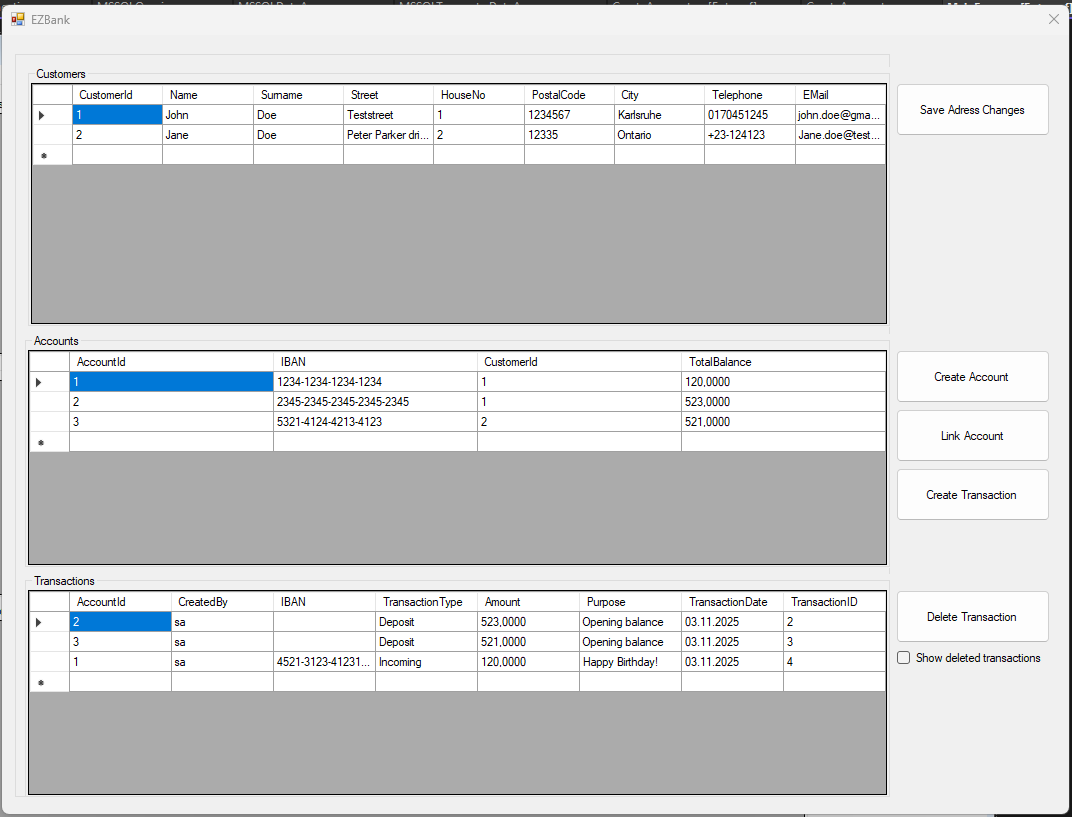
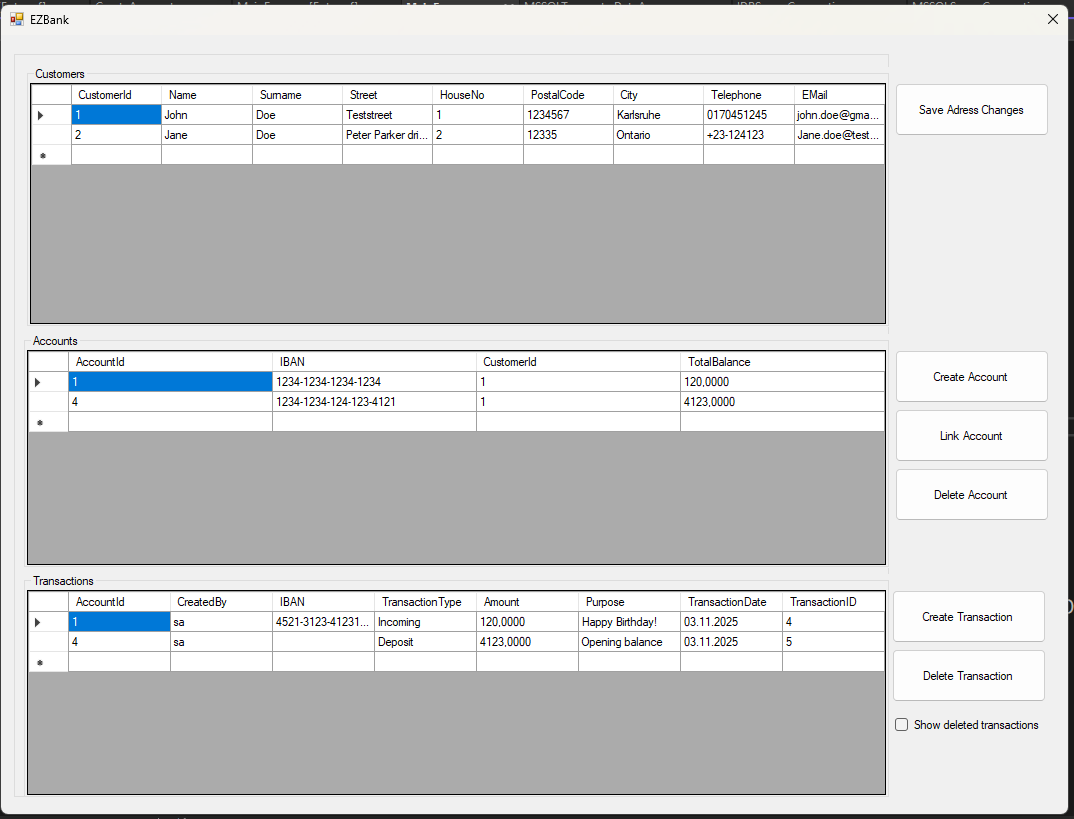
implement deleting accounts

diff --git a/UI/MainForm.Designer.cs b/UI/MainForm.Designer.cs
@@ -41,6 +41,7 @@
             this.btnDeleteTransaction = new System.Windows.Forms.Button();
             this.btnAccountcreate = new System.Windows.Forms.Button();
             this.chkDeletedTransactions = new System.Windows.Forms.CheckBox();
+            this.btnDeleteAccount = new System.Windows.Forms.Button();
             this.grpMain.SuspendLayout();
             this.grpTransactions.SuspendLayout();
             ((System.ComponentModel.ISupportInitialize)(this.dgvTransactions)).BeginInit();
@@ -148,7 +149,7 @@
             // 
             // btnTransaction
             // 
-            this.btnTransaction.Location = new System.Drawing.Point(894, 433);
+            this.btnTransaction.Location = new System.Drawing.Point(891, 555);
             this.btnTransaction.Name = "btnTransaction";
             this.btnTransaction.Size = new System.Drawing.Size(154, 53);
             this.btnTransaction.TabIndex = 3;
@@ -158,7 +159,7 @@
             // 
             // btnDeleteTransaction
             // 
-            this.btnDeleteTransaction.Location = new System.Drawing.Point(894, 555);
+            this.btnDeleteTransaction.Location = new System.Drawing.Point(891, 614);
             this.btnDeleteTransaction.Name = "btnDeleteTransaction";
             this.btnDeleteTransaction.Size = new System.Drawing.Size(154, 53);
             this.btnDeleteTransaction.TabIndex = 4;
@@ -179,7 +180,7 @@
             // chkDeletedTransactions
             // 
             this.chkDeletedTransactions.AutoSize = true;
-            this.chkDeletedTransactions.Location = new System.Drawing.Point(895, 615);
+            this.chkDeletedTransactions.Location = new System.Drawing.Point(894, 682);
             this.chkDeletedTransactions.Name = "chkDeletedTransactions";
             this.chkDeletedTransactions.Size = new System.Drawing.Size(151, 17);
             this.chkDeletedTransactions.TabIndex = 6;
@@ -187,11 +188,22 @@
             this.chkDeletedTransactions.UseVisualStyleBackColor = true;
             this.chkDeletedTransactions.CheckedChanged += new System.EventHandler(this.chkDeletedTransactions_CheckedChanged);
             // 
+            // btnDeleteAccount
+            // 
+            this.btnDeleteAccount.Location = new System.Drawing.Point(894, 433);
+            this.btnDeleteAccount.Name = "btnDeleteAccount";
+            this.btnDeleteAccount.Size = new System.Drawing.Size(154, 53);
+            this.btnDeleteAccount.TabIndex = 7;
+            this.btnDeleteAccount.Text = "Delete Account";
+            this.btnDeleteAccount.UseVisualStyleBackColor = true;
+            this.btnDeleteAccount.Click += new System.EventHandler(this.btnDeleteAccount_Click);
+            // 
             // MainForm
             // 
             this.AutoScaleDimensions = new System.Drawing.SizeF(6F, 13F);
             this.AutoScaleMode = System.Windows.Forms.AutoScaleMode.Font;
             this.ClientSize = new System.Drawing.Size(1067, 779);
+            this.Controls.Add(this.btnDeleteAccount);
             this.Controls.Add(this.chkDeletedTransactions);
             this.Controls.Add(this.btnAccountcreate);
             this.Controls.Add(this.btnDeleteTransaction);
@@ -232,6 +244,7 @@
         private System.Windows.Forms.Button btnDeleteTransaction;
         private System.Windows.Forms.Button btnAccountcreate;
         private System.Windows.Forms.CheckBox chkDeletedTransactions;
+        private System.Windows.Forms.Button btnDeleteAccount;
     }
 }
 

diff --git a/MSSQL/DataAccessClasses/MSSQLAccountDataAccess.cs b/MSSQL/DataAccessClasses/MSSQLAccountDataAccess.cs
@@ -4,6 +4,8 @@ using System;
 using System.Collections.Generic;
 using System.Data.SqlClient;
 using System.Linq;
+using System.Net.NetworkInformation;
+using System.Security.Principal;
 using System.Text;
 using System.Threading.Tasks;
 using System.Windows.Forms;
@@ -67,23 +69,34 @@ namespace EZBank.Classes.DataAccessClasses
 
         }
 
-        public void DeleteAccount(int transactionId)
+        public void DeleteAccount(int accountId)
         {
-            //TODO
+            string query = MSSQLQueries.deleteAccountTransactions;
 
+            using (SqlConnection conn = new SqlConnection(_connectionString))
+            {
+                using (SqlCommand cmd = new SqlCommand(query, conn))
+                {
+                    cmd.Parameters.AddWithValue("@AccountID", accountId);
+                    cmd.Parameters.AddWithValue("@username", base._username);
+                    conn.Open();
+                    cmd.ExecuteNonQuery();
+                    conn.Close();
+                }
+            }
 
-            //string query = "Update [Transaction] SET deletedBy = @username WHERE TransactionID = @TransactionId";
-            //using (SqlConnection connection = new SqlConnection(_connectionString))
-            //{
-            //    using (SqlCommand cmd = new SqlCommand(query, connection))
-            //    {
-            //        cmd.Parameters.AddWithValue("@userName", _username);
-            //        cmd.Parameters.AddWithValue("@transactionId", transactionId);
-            //        connection.Open();
-            //        cmd.ExecuteNonQuery();
-            //        connection.Close();
-            //    }
-            //}
+            query = MSSQLQueries.deleteAccount;
+
+            using (SqlConnection conn = new SqlConnection(_connectionString))
+            {
+                using (SqlCommand cmd = new SqlCommand(query, conn))
+                {
+                    cmd.Parameters.AddWithValue("@AccountID", accountId);
+                    conn.Open();
+                    cmd.ExecuteNonQuery();
+                    conn.Close();
+                }
+            }
         }
 
     }

diff --git a/UI/MainForm.cs b/UI/MainForm.cs
@@ -200,5 +200,18 @@ namespace EZBank
             _transactionDataTable = new DataTable();
             LoadData();
         }
+
+        private void btnDeleteAccount_Click(object sender, EventArgs e)
+        {
+            //Lets start with some validation first
+            if (dgvAccounts.CurrentRow == null)
+                return;
+
+            if (!int.TryParse(dgvAccounts.CurrentRow.Cells["AccountId"].Value?.ToString(), out int accountId))
+                return;
+
+            _serverConnection.DeleteAccount(accountId);
+            LoadData();
+        }
     }
 }

diff --git a/MSSQL/MSSQLQueries.cs b/MSSQL/MSSQLQueries.cs
@@ -41,5 +41,9 @@ namespace EZBank.Helpers
                                               INNER JOIN vwAccountBalance ON Account.AccountId = vwAccountBalance.AccountId";
 
         public static string selectCustomer = @"SELECT * FROM [Customer]";
-     }
+
+        public static string deleteAccount = @"DELETE FROM [Account] WHERE AccountID = @AccountID";
+
+        public static string deleteAccountTransactions = @"UPDATE [Transaction] SET deletedBy = @username, AccountID = NULL WHERE AccountID = @AccountID";
+    }
 }
